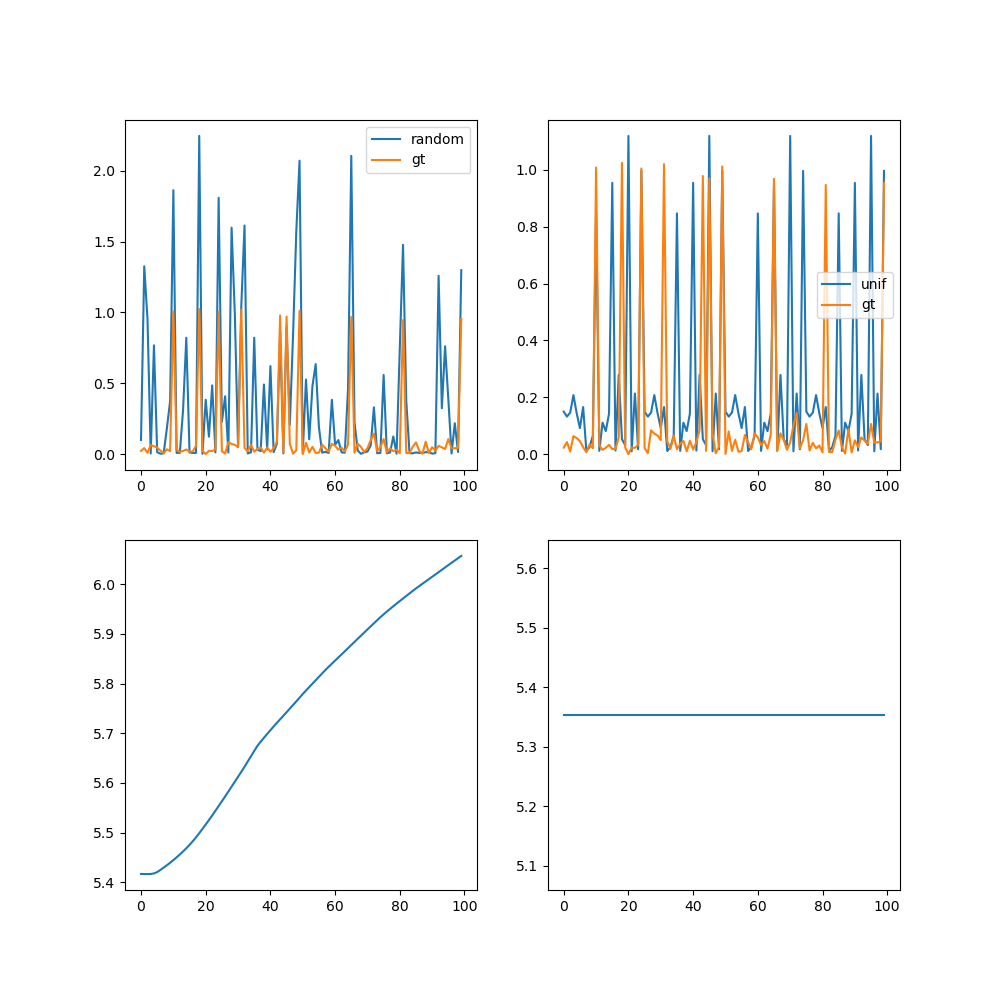
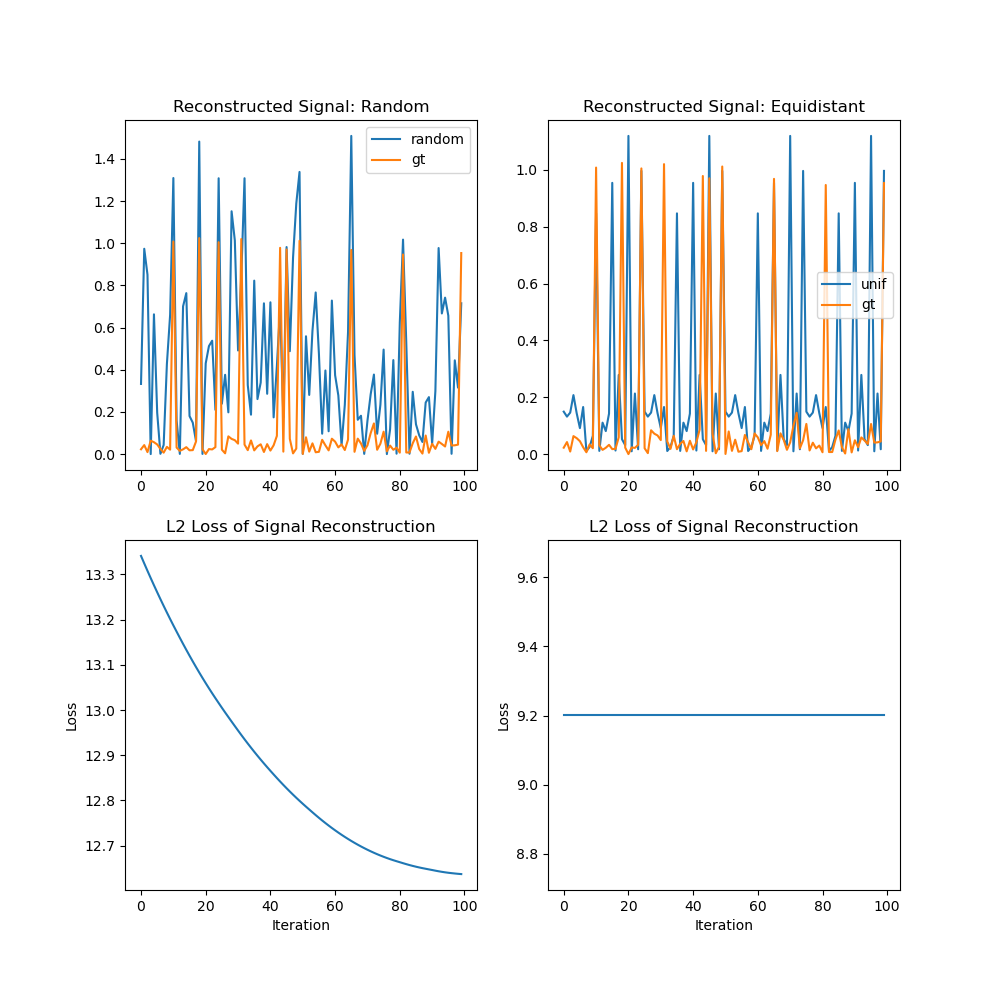
Change: Fix loss plots in compressed sensing problem.

diff --git a/src/signal_problems.py b/src/signal_problems.py
@@ -43,6 +43,7 @@ ax[1].set_title(f"a={a_outlier_l2:4f} b={a_outlier_l2:.4f}")
 plt.savefig("outputs/regression_l2.png")
 
 # L1 optimisation
+
 B_coefs = []
 
 for i, y in enumerate([y_noisy, y_outlier]):
@@ -104,20 +105,24 @@ signal_unif = ifft1c(sample_unif) * sample_freq
 
 fig, ax = plt.subplots(2, 3, figsize=(15, 10))
 ax[0, 0].plot(abs(data))
-ax[0, 0].set_title("measurements")
+ax[0, 0].set_title("Measurements")
 ax[0, 1].plot(abs(sample_random))
+ax[0, 1].set_title("Random Sample")
 ax[0, 2].plot(abs(sample_unif))
+ax[0, 2].set_title("Equidistant Sample")
 ax[1, 0].plot(abs(signal))
-ax[1, 0].set_title("signal")
+ax[1, 0].set_title("Signal")
 ax[1, 1].plot(abs(signal_random))
+ax[1, 1].set_title("Signal from Random Sample")
 ax[1, 2].plot(abs(signal_unif))
+ax[1, 2].set_title("Signal from Equidistant Sample")
 plt.savefig("outputs/signal.png")
 
 data_random_recon, mse_random = iterative_soft_thresholding(
-    sample_random, lam=5e-3, n_iters=100, gt=signal
+    sample_random, lam=1e-3, n_iters=100, sample_freq=sample_freq, gt=signal
 )
 data_unif_recon, mse_unif = iterative_soft_thresholding(
-    sample_unif, lam=1e-3, n_iters=100, gt=signal
+    sample_unif, lam=1e-3, n_iters=100, sample_freq=sample_freq, gt=signal
 )
 
 signal_random_recon = ifft1c(data_random_recon) * sample_freq
@@ -127,11 +132,19 @@ fig, ax = plt.subplots(2, 2, figsize=(10, 10))
 ax[0, 0].plot(abs(signal_random_recon), label="random")
 ax[0, 0].plot(abs(signal), label="gt")
 ax[0, 0].legend()
+ax[0, 0].set_title("Reconstructed Signal: Random")
 ax[0, 1].plot(abs(signal_unif_recon), label="unif")
 ax[0, 1].plot(abs(signal), label="gt")
 ax[0, 1].legend()
+ax[0, 1].set_title("Reconstructed Signal: Equidistant")
 ax[1, 0].plot(mse_random)
+ax[1, 0].set(
+    title="L2 Loss of Signal Reconstruction", xlabel="Iteration", ylabel="Loss"
+)
 ax[1, 1].plot(mse_unif)
+ax[1, 1].set(
+    title="L2 Loss of Signal Reconstruction", xlabel="Iteration", ylabel="Loss"
+)
 plt.savefig("outputs/signal_reconstruct.png")
 
 # --- Image Compression via Wavelet Decomposition --- #

diff --git a/src/imagetools/signals.py b/src/imagetools/signals.py
@@ -23,17 +23,21 @@ def ComplexSoftThresh(y, lam):
     return cst
 
 
-def iterative_soft_thresholding(data_sampled, lam, n_iters, gt=None):
+def iterative_soft_thresholding(
+    data_sampled, lam, n_iters, sample_freq, gt=None
+):
     data = data_sampled.copy()
     mse_values = []
     for i in range(n_iters):
         signal = ifft1c(data)
+        if not (gt is None):
+            mse_values.append(
+                0.5 * np.sum(abs(signal * sample_freq - gt) ** 2)
+            )
         signal = ComplexSoftThresh(signal, lam=lam)  # Threshold
         data = fft1c(signal)
         # Data consistency step for measurements
         data = data * (data_sampled == 0) + data_sampled
-        if not (gt is None):
-            mse_values.append(0.5 * np.sum(abs(data - gt) ** 2))
     return data, mse_values
 
 
